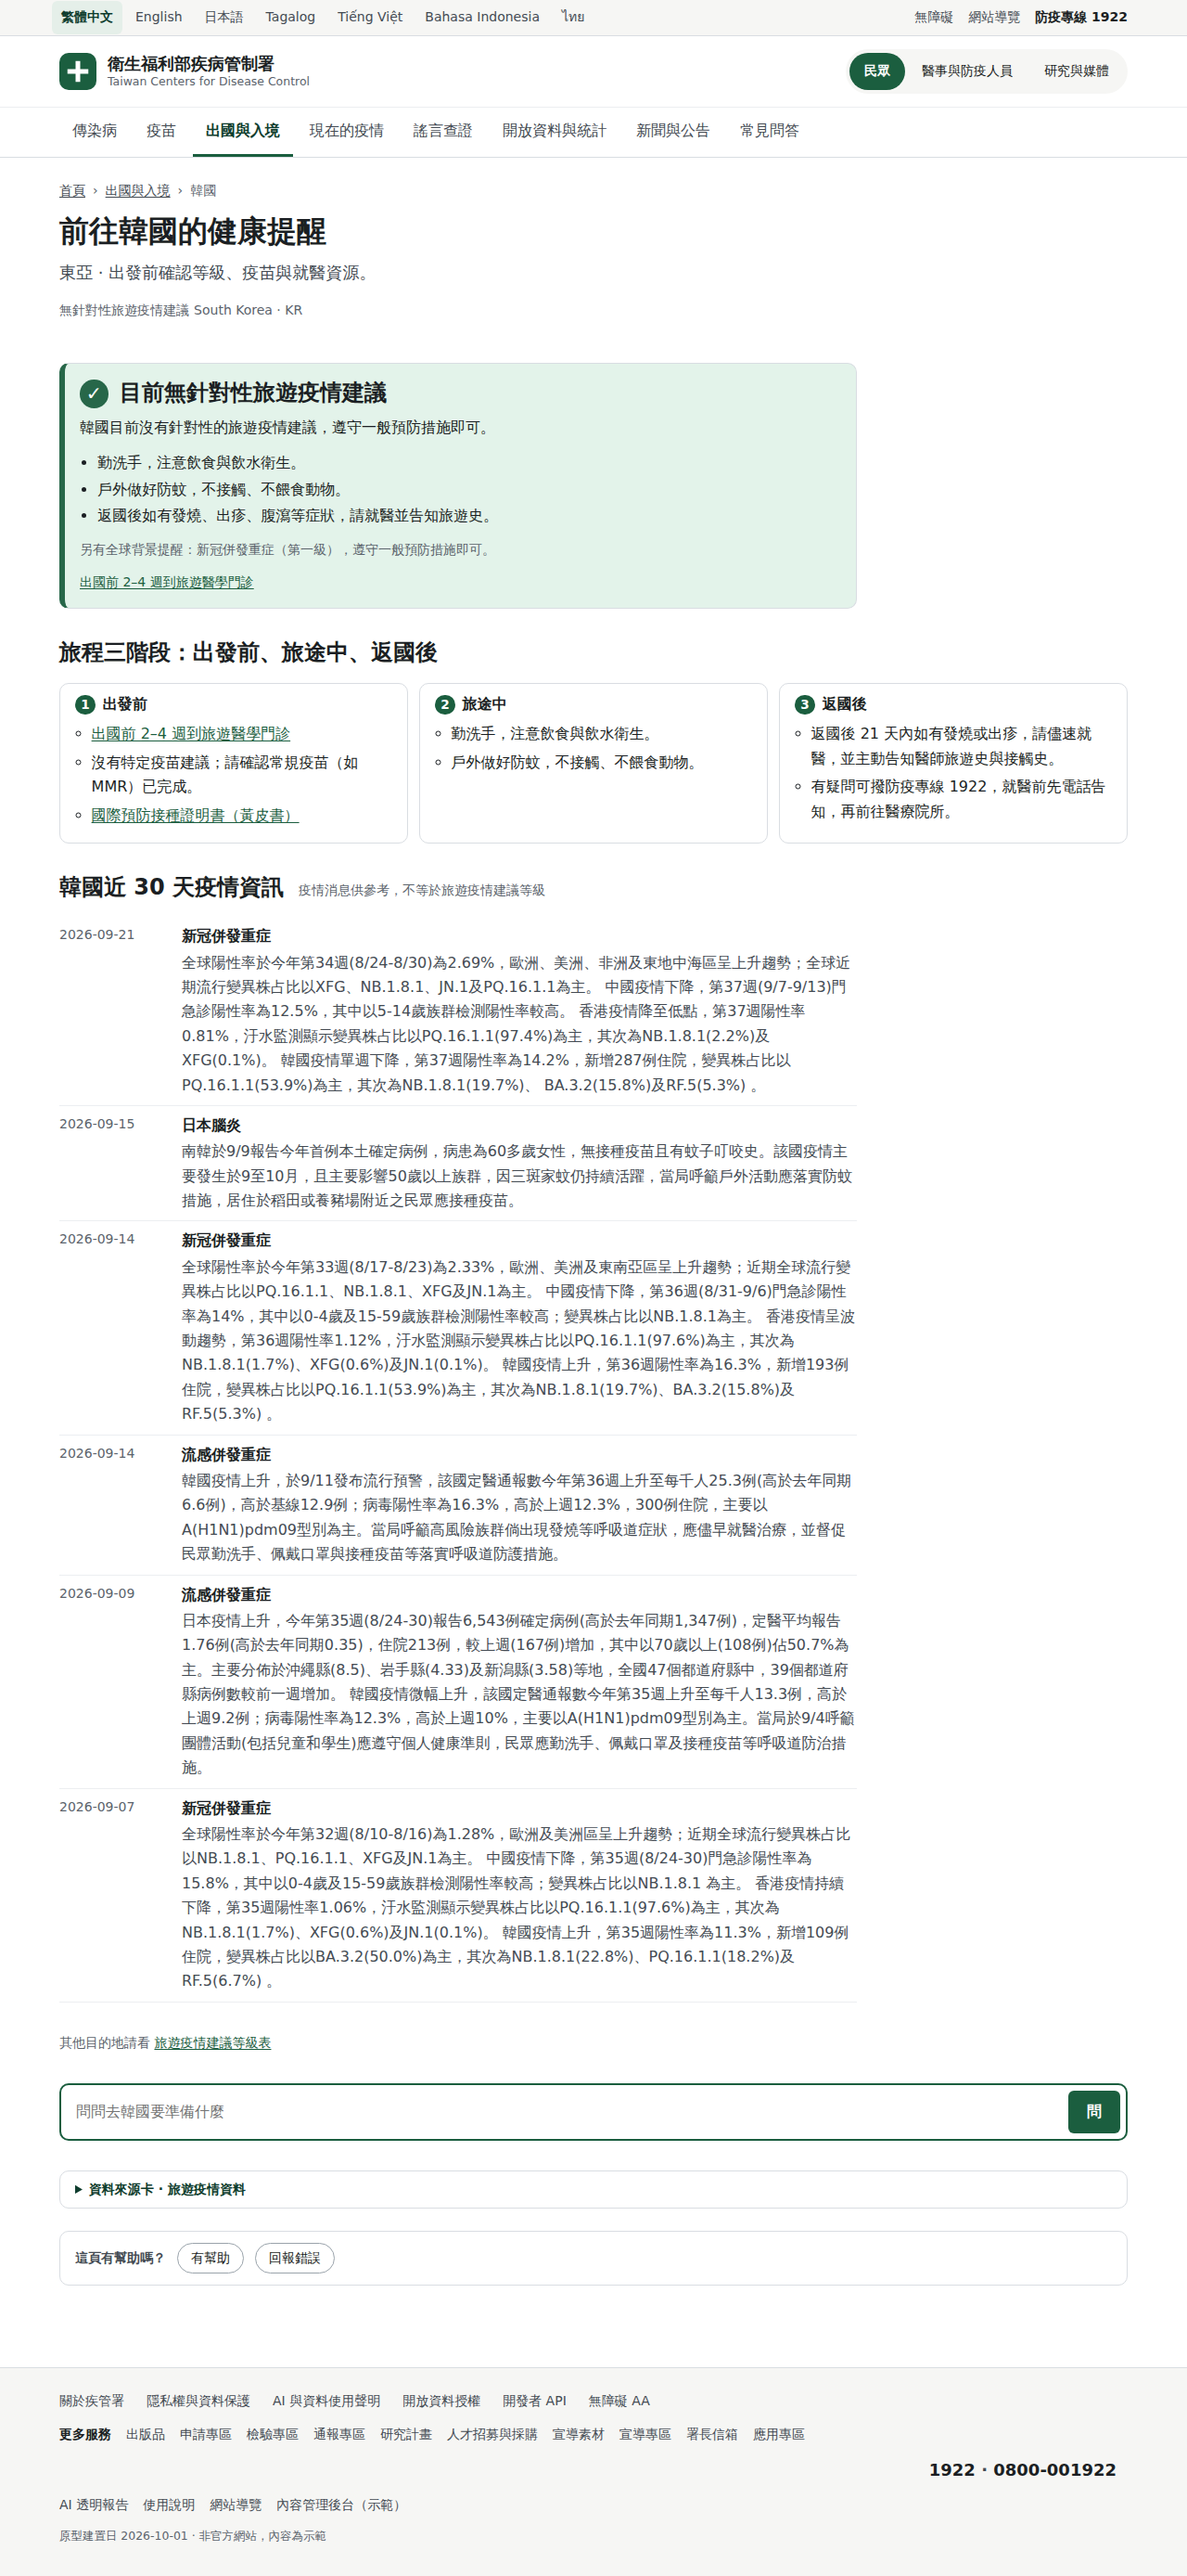
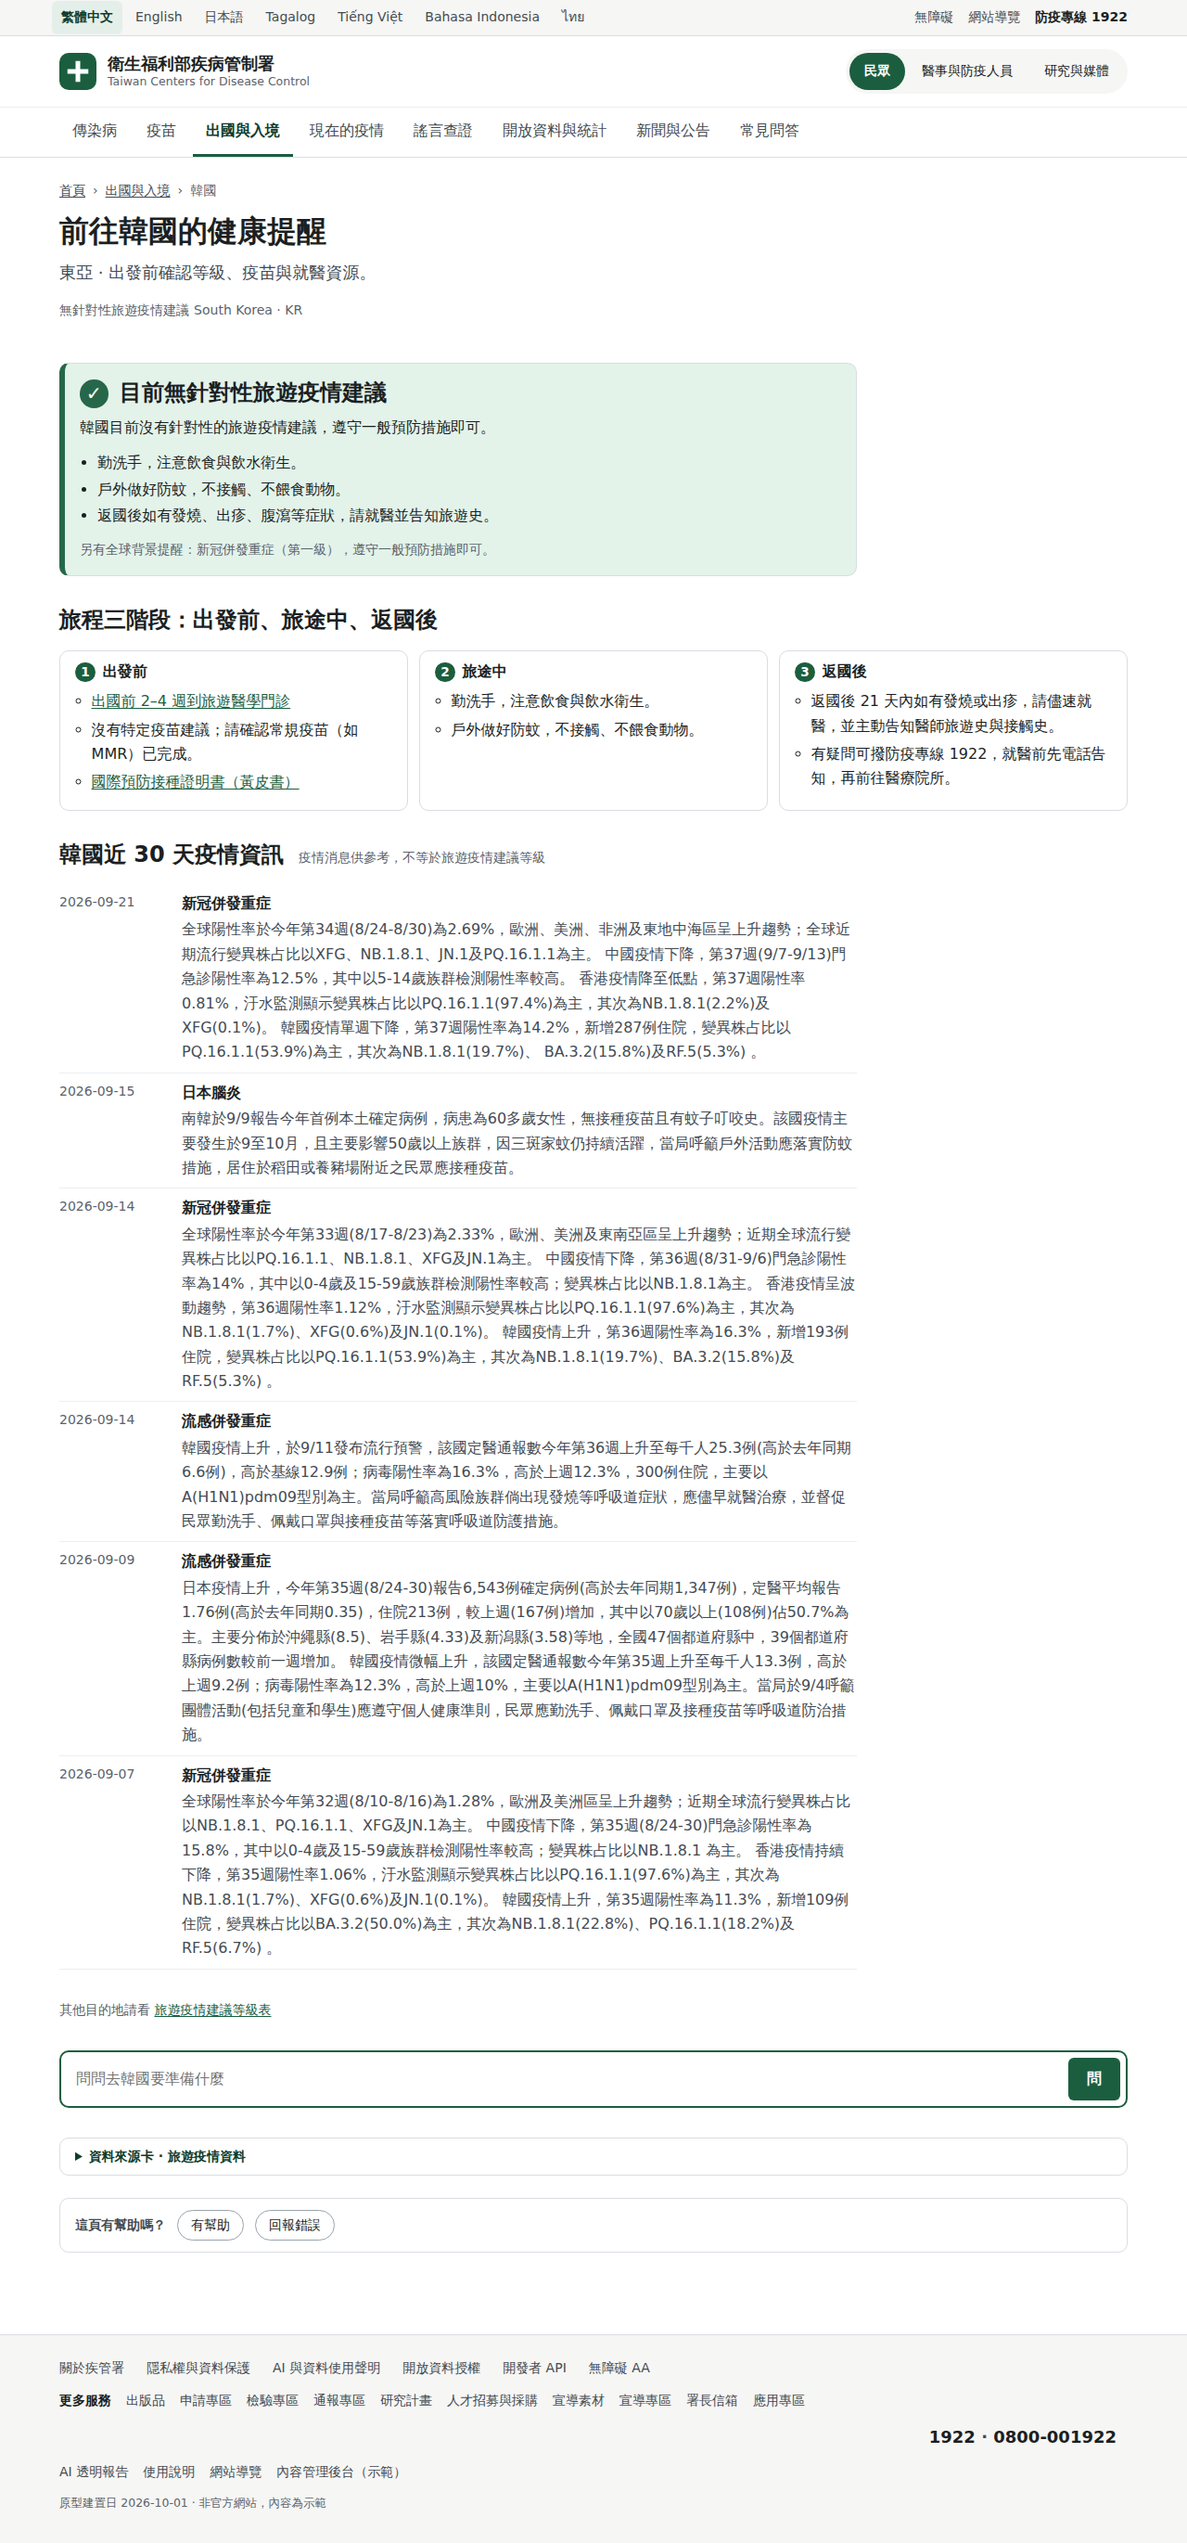
第四輪：國際旅遊疫情建議改為「目的地決策」：背景提醒、近 30 天變化、目的地頁三階段、世界地圖
資料（T1）
- fetch-data：背景提醒分類（同病同級涵蓋 ≥50% 且 ≥20 國 ⇒ Background，meta.background[]），每國 Targeted* 針對性等級，
  事件快照 country-epid-events.json（新增／調升／調降／解除／重發，400 天），changeSummary30、RecentChanges；
  `npm run fetch -- --reaggregate` 離線重算；國家比對改以 ISO2 優先避免誤併。
- countries.json 60 → 231 國（官方資料全部有 ISO2 者，皆有區域）；load/emit-api/openapi 新增 /v1/country-changes.json、/v1/country-background.json。
- 答案引擎：travelFor 排除背景、無針對性建議時平靜回答、新增變化意圖；評估集 +3（186 題全過）。

呈現（T2）
- /travel/：查目的地置頂放大（支援 ?q=）、近 30 天變化四數字與清單、世界地圖、全球背景提醒、三級定義、針對性等級表（第一級逾 40 項預設收合）。
- /travel/{ISO2}/ 全部 231 國同一結構：針對性等級卡（持續時間、長期建議標籤、背景提醒淡字）、旅程三階段（依疾病主檔與傳播途徑規則生成）、該國近 30 天疫情資訊、相關資料。
- 任務頁與首頁入口：查目的地表單與針對性統計；i18n 新增 54 key 七語。

地圖（T3）
- scripts/gen-world-map.mjs（world-atlas 110m → src/data/world-paths.json，110 KB、174 國）；_travel-map.mjs 三級三色、第一級淡色、無建議留白、台灣中性、鍵盤可達、forced-colors。

測試 160（新增 travel-data 15、travel-ui 11、travel-map 7）、build 2454 頁、連結 0 錯誤；README／docs／ADR 13／截圖更新。

Claude-Session: https://claude.ai/code/session_01DBHMoSQjm9k2z6YtYQo18C

diff --git a/src/client/i18n.js b/src/client/i18n.js
@@ -959,6 +959,7 @@ const ROWS_TRAVEL = {
   'travel.table.t': ['旅遊疫情建議等級表', 'Travel health notice levels', '感染症危険情報レベル表', 'Talaan ng travel health notice', 'Bảng mức khuyến cáo dịch tễ du lịch', 'Tabel level peringatan kesehatan perjalanan', 'ตารางระดับคำแนะนำด้านโรคระบาด'],
   'travel.table.note': ['只列針對性建議（全球背景提醒不逐國列出）；依等級分段、每段依疾病列出國家／地區，點國家看完整建議。沒有出現的國家／地區目前無針對性建議。', 'Targeted notices only (the global background reminder is not listed country by country). Grouped by level, then by disease; select a country for full advice. Places not shown have no targeted notice.', '個別情報のみ掲載（全世界共通の注意喚起は国別に載せません）。レベル別・感染症別に並べています。国を選ぶと詳細が見られます。載っていない地域は現在、個別情報なしです。', 'Mga partikular na abiso lang (hindi isa-isang nakalista ang pangkalahatang paalala). Nakagrupo ayon sa antas at sakit; piliin ang bansa para sa buong payo. Ang wala sa listahan ay walang partikular na abiso.', 'Chỉ liệt kê khuyến cáo riêng (nhắc nhở nền toàn cầu không liệt kê từng nước). Nhóm theo mức rồi theo bệnh; chọn quốc gia để xem đầy đủ. Nơi không có tên hiện không có khuyến cáo riêng.', 'Hanya peringatan khusus (pengingat latar global tidak dicantumkan per negara). Dikelompokkan menurut level lalu penyakit; pilih negara untuk saran lengkap. Yang tidak tercantum tidak punya peringatan khusus.', 'เฉพาะคำแนะนำเฉพาะ (ข้อควรระวังพื้นหลังทั่วโลกไม่แสดงรายประเทศ) จัดกลุ่มตามระดับและโรค เลือกประเทศเพื่อดูรายละเอียด ที่ไม่ปรากฏคือไม่มีคำแนะนำเฉพาะ'],
   'travel.table.sum': ['共 {c} 國 {n} 項', '{c} countries · {n} notices'],
+  'travel.table.expand': ['展開第一級全部清單（{c} 國 {n} 項）', 'Show the full Level 1 list ({c} countries · {n} notices)', '第一級の全リストを表示（{c}か国・{n}件）', 'Ipakita ang buong listahan ng Antas 1 ({c} bansa · {n} abiso)', 'Hiện toàn bộ danh sách Cấp 1 ({c} quốc gia · {n} khuyến cáo)', 'Tampilkan daftar lengkap Tingkat 1 ({c} negara · {n} pemberitahuan)', 'แสดงรายการระดับ 1 ทั้งหมด ({c} ประเทศ · {n} รายการ)'],
   'travel.table.none': ['目前無', 'None at present', '現在なし', 'Wala sa ngayon', 'Hiện không có', 'Saat ini tidak ada', 'ขณะนี้ไม่มี'],
   'travel.table.others': ['目前無針對性建議的國家／地區（{n}）', 'Countries and regions with no targeted notice ({n})', '個別情報のない国・地域（{n}）', 'Mga bansa/rehiyon na walang partikular na abiso ({n})', 'Quốc gia/khu vực không có khuyến cáo riêng ({n})', 'Negara/wilayah tanpa peringatan khusus ({n})', 'ประเทศ/ภูมิภาคที่ไม่มีคำแนะนำเฉพาะ ({n})'],
   'travel.news.t': ['國際重要疫情資訊（近 30 天）', 'International outbreak news (last 30 days)'],

diff --git a/README.md b/README.md
@@ -41,6 +41,7 @@
 - **民眾端**：一句話提問、六任務、疫情態勢、疾病與疫苗、旅遊、謠言查證、影音庫、專區、申請專區、公告、署長信箱。
 - **專業端**：版本異動對照、檢驗專區、通報專區（時限表自動產生）、研究計畫、出版品、訂閱。
 - **後台**：上架預處理（十五種型別）、複核、審閱到期、資料目錄（含影音、專區、申請、出版品、檢驗、研究）、**公告管理、影音管理、外部連結健康**、連動待辦（含影音過時、無逐字稿、連結失效、檢驗不一致）、態勢發布、AI 開關、評估、儀表板。
+- **出國與入境（第四輪）**：以目的地為主：231 個國家／地區各有目的地頁（針對性等級、持續時間、長期建議標籤、旅程三階段建議由疾病主檔規則生成、該國近 30 天疫情資訊）；`/travel/` 依序為查目的地、近 30 天變化、世界地圖（三級三色、點國家進頁）、全球背景提醒、針對性等級表；API 新增 `/v1/country-changes.json`、`/v1/country-background.json`。
 - **新增的自動化**：公告截止自動標示並退出首頁；影片製作日早於正本現行版生效日自動標過時；逐字稿參與反向稽核；外部連結每日 `npm run fetch -- --check-links` 檢查，失效自動變待辦；通報時限表由主檔產生。
 
 ## 快速開始
@@ -83,6 +84,7 @@ npm run dev       # 建置並啟動預覽 http://localhost:4173/new_cdc_prototyp
 - AI 暫停開關 → 全站橫幅，答案頁退回傳統列表
 - KPI 與季度 AI 透明報告每次建置重算
 - 評估集閘門：版本題只要錯一題，建置失敗
+- 旅遊疫情等級表把官方「歷次警示事件」當事件日誌處理：每國每病最新一則、解除即不列；同一疾病同一等級涵蓋 ≥ 50% 國家自動歸為「全球背景提醒」不逐國列；近 30 天新增／調升／調降／解除自動統計；live 分布病態時自動退回人工校對快照並記錄原因
 
 ## 目錄
 
@@ -107,7 +109,7 @@ docs/                使用說明與治理文件
 
 ## 資料來源與示意聲明
 
-- **官方來源資料**：旅遊疫情、國家等級、CKAN 資料目錄由 `scripts/fetch-data.mjs` 抓取到 `data/snapshots/`，每檔記錄來源與時間；抓不到時沿用既有快照。
+- **官方來源資料**：旅遊疫情、國家等級與事件流、CKAN 資料目錄由 `scripts/fetch-data.mjs` 抓取到 `data/snapshots/`，每檔記錄來源與時間；CI 排程每日抓取後把快照 commit 回 `main`，所以 repo 內的快照就是當日官方資料（`meta.mode: 'live'`）；抓不到時沿用既有快照並在 `meta.lastLiveAttempt` 記錄原因。
 - **示意資料**：疫情態勢的狀態與數字（頁面標「示意」）、致醫界通函卡片、專區的「○○醫院」登入畫面、白名單核准日期、評估集題目與通過率。**不可當作真實疫情或機關決議引用。**
 - **內容文字**：範例中的疾病、疫苗與 MMR 建議內容依公開資訊撰寫，用於示範版本鏈與連動；正式上線前須由權責單位逐字審閱。
 - 本原型不放真人姓名與個資，承辦人以職稱表示。

diff --git a/docs/guide-public.md b/docs/guide-public.md
@@ -42,10 +42,26 @@
 | --- | --- |
 | 有症狀怎麼辦 | 症狀對照、哪些情況要立刻就醫、附近資源 |
 | 疫苗與預防接種 | 我該打什麼、公費對象、接種時程 |
-| 出國與入境 | 目的地疫情等級、行前準備、旅遊醫學門診 |
+| 出國與入境 | 查目的地、近 30 天變化、世界地圖、行前準備、旅遊醫學門診（詳見下節） |
 | 現在的疫情 | 即時態勢、趨勢圖 |
 | 謠言查證 | 貼上訊息查真假，附可轉傳的官方澄清 |
 | 開放資料與統計 | 資料集、統計查詢、API |
+
+## 出國與入境：先查目的地
+
+出國前的流程是「查目的地 → 看這個國家 → 照三階段準備」，不必先讀完整張等級表。
+
+1. **查目的地（頁面最上方）**：輸入國家或地區名稱（中文、英文或兩碼代號都可以），馬上看到結果卡。結果卡用的是「**針對性建議等級**」，也就是排除全球背景提醒後，該國目前最高的一級。沒有針對性建議的國家會看到綠色勾勾與「一般預防措施」，不必擔心。
+2. **近 30 天變化**：四個數字（新增、調升、調降、解除）加上最多 10 則清單。「解除」用綠色，代表該項建議已經取消。
+3. **世界地圖**：顏色是各國針對性建議的最高等級（第三級最深、第一級最淡），沒上色代表目前無針對性建議；點國家進入該國的目的地頁。地圖有文字替代，等級表就在下方。
+4. **全球背景提醒**：像「新冠併發重症」這類幾乎所有國家都適用的提醒，只用一列說明，不會在每個國家重複，避免把真正需要注意的訊息淹沒。
+5. **針對性建議等級表**：依第三級、第二級、第一級分段，每段依疾病列出國家；滑鼠移到國家名稱上會顯示「自 YYYY-MM-DD」的發布日。
+6. **每個國家的目的地頁**（`/travel/國碼/`）：
+   - 逐項疾病的等級、發布日、**持續時間**（例如「自 2015 年起 · 11 年」），超過 3 年會標「長期建議」。
+   - **旅程三階段**：出發前（旅遊醫學門診、相關疫苗與國際預防接種證明）、旅途中（依疾病的傳播途徑，例如蚊媒疾病提醒防蚊、經食物與水傳播的提醒飲食安全）、返國後（21 天內發燒或出疹就醫並告知旅遊史，可撥 1922）。這些提醒由疾病主檔的傳播途徑與疫苗欄位自動產生，不是逐國手寫。
+   - 該國近 30 天的國際重要疫情資訊，以及背景提醒的一行淡字。
+
+資料來源是疾管署公開的「國際旅遊疫情建議等級」與「國際重要疫情資訊」；「近 30 天變化」由歷次警示事件整理。若頁面標示資料為離線反推，代表目前只能由現況推得「新增」，不含調升、調降與解除。
 
 ## 答案頁的三層資訊
 

diff --git a/docs/governance-model.md b/docs/governance-model.md
@@ -68,6 +68,7 @@
 13. **外部連結健康**：專區連結、申請網址與表單、公告報名網址、影片網址、出版品 PDF 彙整為 `site.gov.externalLinks[]`；`fetch-data --check-links` 寫回 `status`／`lastCheckedAt`。`broken` → 待辦 `link-broken`；`unchecked` 不產生待辦。
 14. **檢驗一致性**：`labtest.sendWithinHours` > 主檔 `notifyWithinHours` → 待辦 `labtest-inconsistent`（低優先）。
 15. **通報時限表**：`/report/` 的法定傳染病通報時限表由 `master/diseases.json` 自動產生，主檔改了表就改，零維護。
+16. **旅遊疫情建議（官方事件流）**：`CountryEpidLevel/ExportJSON` 每列是一則警示事件（含「解除」）。fetch 以每國×疾病×區域最新一則判定現行、解除即不列；同一疾病同一等級涵蓋 ≥ 50% 國家（且 ≥ 20 國）⇒ `Background: true`，表與地圖用排除背景後的「針對性等級」；事件寫入 `country-epid-events.json` 推出新增／調升／調降／解除；分布超出閘門（第三級 >5、第二級 >60、第一級 >250）⇒ 沿用人工校對快照並記錄 `meta.lastLiveAttempt`。全部不需人工。
 
 
 ## 3. 白名單政策
